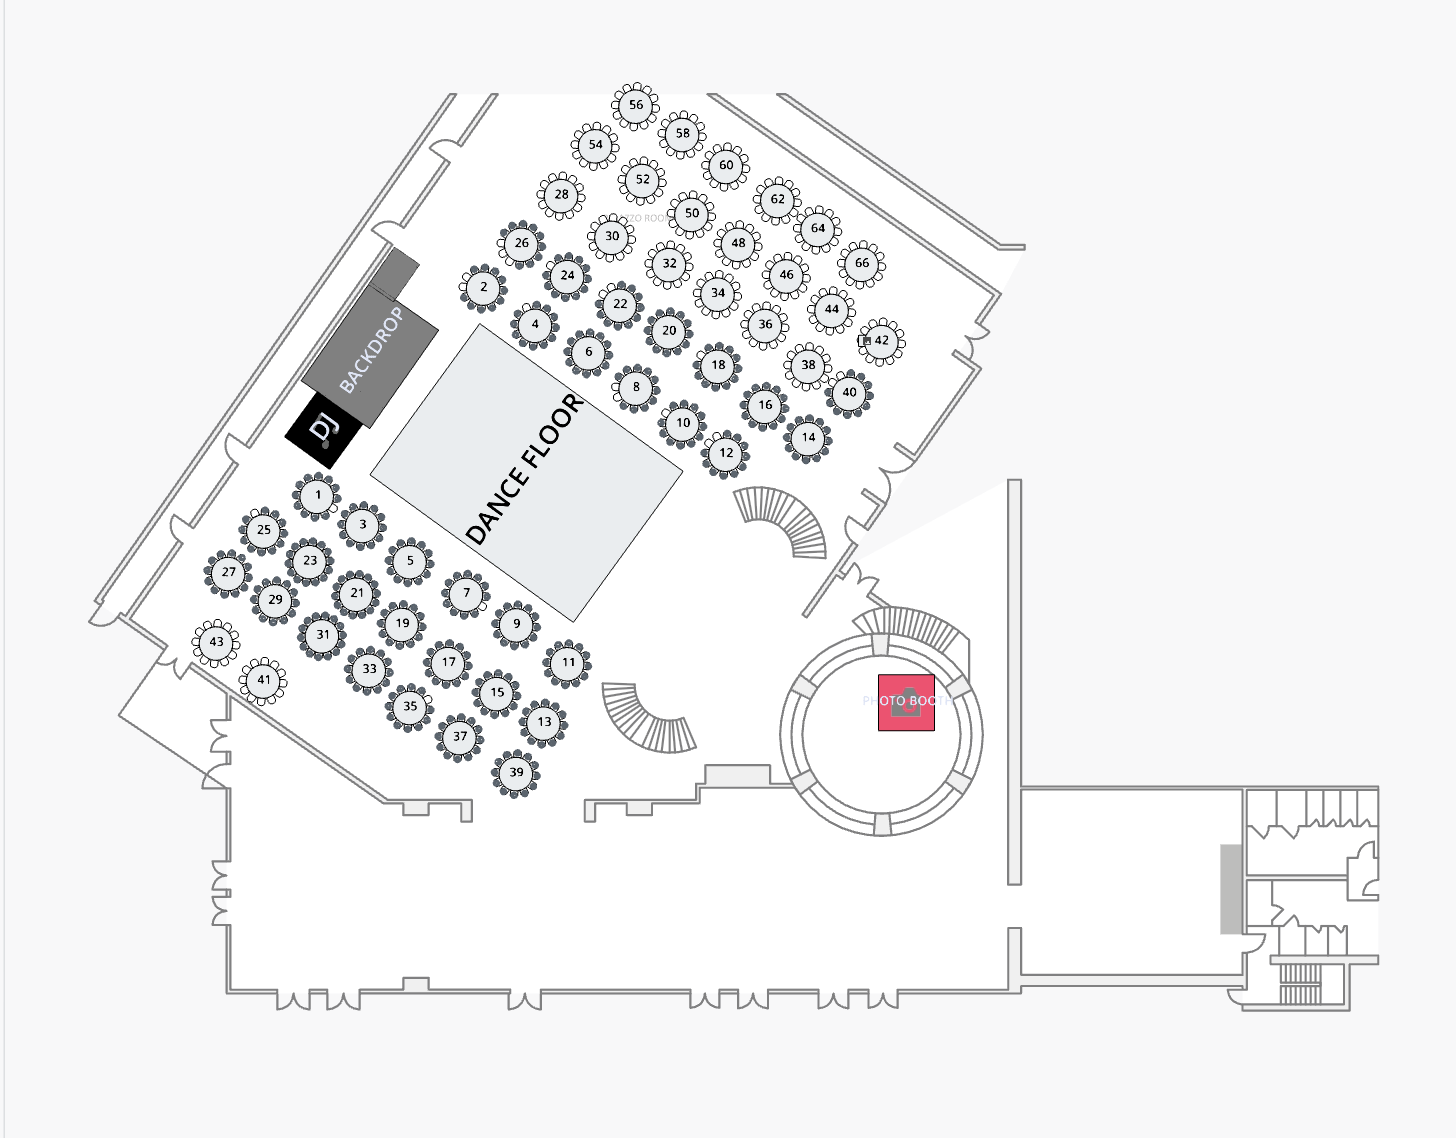
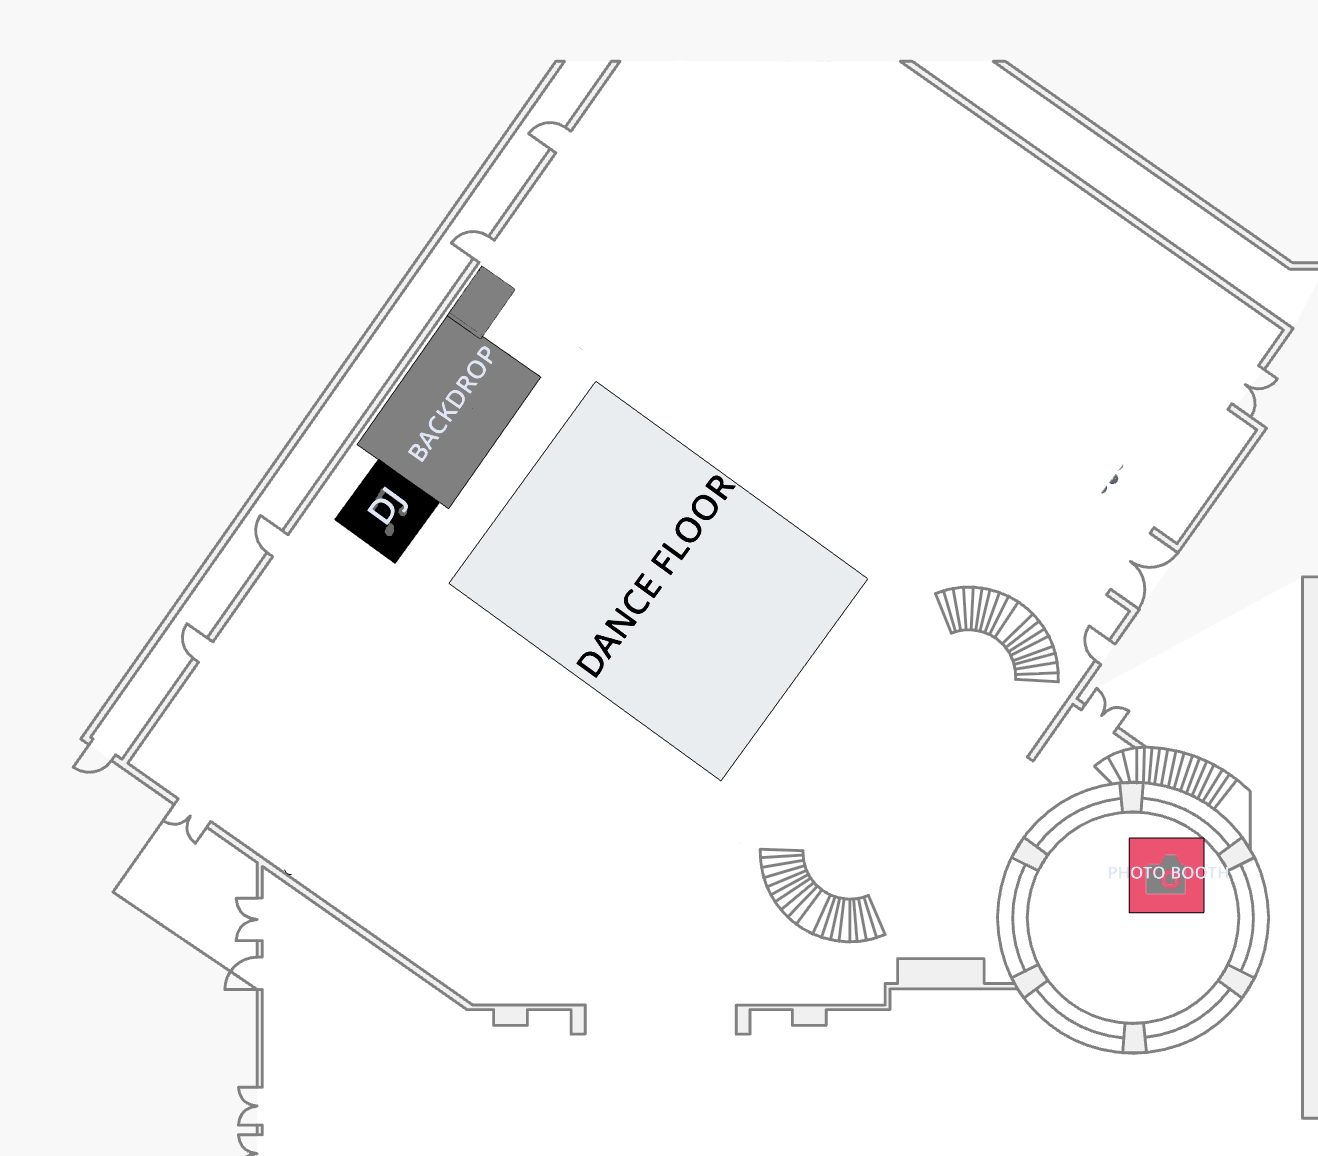
feat: adjust aspect ratio and table positions for new floor plan image\n\nUpdated aspect ratio and inner frame dimensions. Applied linear transform to table positions for new background image.

diff --git a/components/floor-plan.tsx b/components/floor-plan.tsx
@@ -14,19 +14,20 @@ export function FloorPlan({ data, highlightTable }: FloorPlanProps) {
   return (
     <div
       className="relative w-full overflow-hidden rounded-xl border border-border bg-card shadow-sm"
-      style={{ aspectRatio: "990 / 830" }}
+      style={{ aspectRatio: "1226 / 1052" }}
       role="img"
       aria-label="Venue floor plan"
     >
       {/*
-        Inner frame is the full image (1456 x 1138). The outer container is
-        cropped to ~68% width and ~73% height, clipping the empty service wing
-        on the right and everything below table 39 at the bottom. The image and
-        the table markers share this frame so highlights stay aligned.
+        The background image is public/venue-floor-plan.png (1318 x 1156).
+        The outer container shows only the top-left ~93% width and ~91% height
+        of it, cropping the empty service wing to the right of the photo booth
+        and the empty floor below table 39. The image and the table markers
+        share this inner frame, so the highlights always stay aligned.
       */}
       <div
         className="absolute left-0 top-0"
-        style={{ width: "147.06%", height: "137.10%" }}
+        style={{ width: "107.53%", height: "109.89%" }}
       >
         {/* Real venue layout (walls, dance floor, backdrop, DJ) as the background */}
         <Image

diff --git a/lib/seating-data.ts b/lib/seating-data.ts
@@ -106,6 +106,13 @@ const TABLE_POSITIONS: { label: string; x: number; y: number }[] = [
   { label: "66", x: 59.2, y: 23.1 },
 ]
 
+// Linear transform mapping the original traced coordinates onto the new
+// background image. SX/SY scale, TX/TY offset (all in percent).
+const SX = 1.468
+const TX = -2.7
+const SY = 1.333
+const TY = -4.2
+
 export const SEATING_DATA: SeatingData = {
   eventTitle: "Julia & Christian",
 
@@ -113,14 +120,16 @@ export const SEATING_DATA: SeatingData = {
   // image at public/venue-floor-plan.png, so there are no drawn fixtures.
   fixtures: [],
 
-  // X_OFFSET nudges every table horizontally (negative = left, positive = right).
-  // Adjust this single value to move the whole set of markers at once.
+  // The original TABLE_POSITIONS were traced on the previous venue image.
+  // The new background image is framed/scaled differently, so each coordinate
+  // is mapped with a single linear transform (scale + offset). Tune these four
+  // numbers to align the whole set of markers at once.
   tables: TABLE_POSITIONS.map((t) => ({
     id: `t${t.label}`,
     label: t.label,
     shape: "round" as const,
-    x: t.x - 1.5,
-    y: t.y,
+    x: t.x * SX + TX,
+    y: t.y * SY + TY,
     seats: 10,
   })),
 
